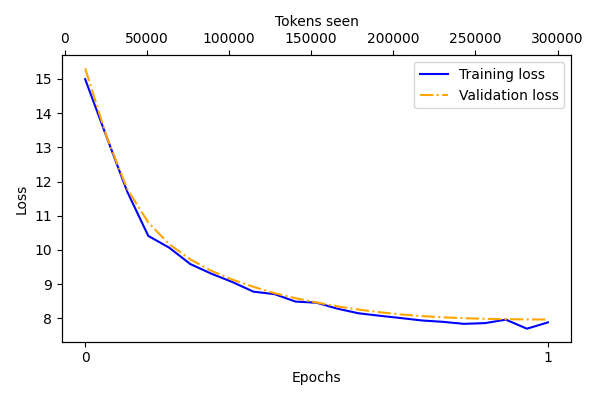
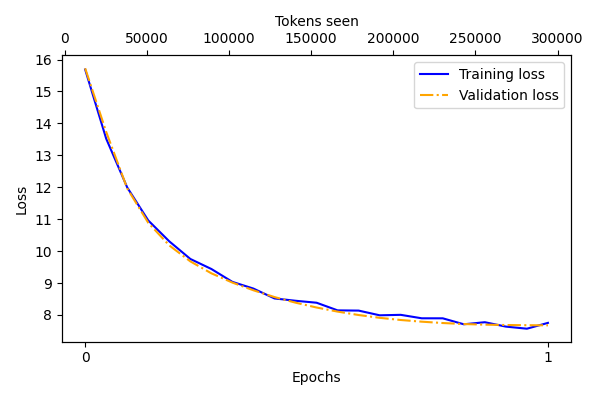
Checkpoint fix, format and BUGS

diff --git a/src/train/trainer.py b/src/train/trainer.py
@@ -58,7 +58,7 @@ class Trainer:
         model.train()
 
     def _checkpoint(
-        self, checkpoint_name, checkpoint_path, steps_per_epoch, chk_path, start_epoch
+        self, checkpoint_name, checkpoint_path, steps_per_epoch, chk_path, start_epoch, grad_accumulation_steps
     ):
         check_checkpoint = load_checkpoint(checkpoint_name, checkpoint_path)
 
@@ -77,7 +77,8 @@ class Trainer:
                     print("Exiting program.")
                     sys.exit()
             
-            return start_epoch, global_step
+            global_step, batches_to_skip = 0, 0
+            return start_epoch, global_step, batches_to_skip
         
         else:   
             print(f"Resuming from checkpoint: {check_checkpoint}")
@@ -86,12 +87,11 @@ class Trainer:
             )
             self.model.load_state_dict(checkpoint["model_state_dict"])
             self.optimizer.load_state_dict(checkpoint["optimizer_state_dict"])
-            start_epoch = checkpoint["epoch"] + 1
-            global_step = checkpoint.get(
-                "global_step", start_epoch * steps_per_epoch - 1
-            )
-
-            return start_epoch, global_step
+            start_epoch = checkpoint["epoch"] 
+            global_step = checkpoint['global_step']
+            batches_to_skip = (global_step + 1) * grad_accumulation_steps
+            
+            return start_epoch, global_step, batches_to_skip
 
     def _training_loop(
         self,
@@ -107,16 +107,18 @@ class Trainer:
         eval_freq,
         eval_iter,
         grad_accumulation_steps, 
+        global_step,
+        chk_path,
+        batches_to_skip
     ):
         train_losses, val_losses, track_tokens_seen, save_lr = [], [], [], []
         token_seen = 0
         max_lr = lr
         
-       
-        if not hasattr(self, 'global_step'): 
-             self.global_step = 0 
+        self.global_step = global_step if global_step >= 0 else 0
 
         self.optimizer.zero_grad(set_to_none=True) 
+        best_loss = torch.inf
 
         for epoch in range(start_epoch, num_epochs):
             self.model.train()
@@ -125,6 +127,11 @@ class Trainer:
             )
 
             for batch_idx, (input_batch, target_batch) in enumerate(progress_bar):
+
+                if epoch == start_epoch and batch_idx < batches_to_skip:
+                    if batch_idx % 100 == 0:
+                        progress_bar.set_description(f'Skipping batch {batch_idx}...')
+                    continue
 
                 loss = calc_loss_batch(
                     input_batch, target_batch, self.model, self.device
@@ -167,9 +174,13 @@ class Trainer:
                         track_tokens_seen.append(token_seen)
                         tqdm.write(f"Step {self.global_step}: Val loss {val_loss:.3f}")
                 
+                if loss < best_loss:
+                    best_loss = loss
+                    save_checkpoint(epoch, global_step, self.model, self.optimizer, loss, chk_path)
+                
                 token_seen += input_batch.numel()
 
-        return epoch, loss, save_lr, train_losses, val_losses, track_tokens_seen
+        return save_lr, train_losses, val_losses, track_tokens_seen
 
     def train(
         self,
@@ -228,11 +239,11 @@ class Trainer:
         start_epoch = 0
         global_step = -1
 
-        start_epoch, global_step = self._checkpoint(
-            checkpoint_name, checkpoint_path, raw_updates, chk_path, start_epoch
+        start_epoch, global_step, batches_to_skip = self._checkpoint(
+            checkpoint_name, checkpoint_path, raw_updates, chk_path, start_epoch, grad_accumulation_steps
         )
 
-        epoch, loss, save_lr, train_losses, val_losses, track_tokens_seen = self._training_loop(
+        save_lr, train_losses, val_losses, track_tokens_seen = self._training_loop(
             train_loader=train_loader,
             val_loader=val_loader,
             start_epoch=start_epoch,
@@ -247,7 +258,11 @@ class Trainer:
             grad_accumulation_steps=grad_accumulation_steps,
             
             eval_freq=eval_freq,
-            eval_iter=eval_iter
+            eval_iter=eval_iter,
+            
+            global_step=global_step,
+            chk_path=chk_path,
+            batches_to_skip=batches_to_skip
         )
 
         self._generate_and_print_sample(
@@ -260,7 +275,6 @@ class Trainer:
             top_p=top_p,
         )
 
-        save_checkpoint(epoch, global_step, self.model, self.optimizer, loss, chk_path)        
         plot_lr_scheduler(save_lr)
 
         return train_losses, val_losses, track_tokens_seen

diff --git a/src/utils/plotting/lr_plotting.py b/src/utils/plotting/lr_plotting.py
@@ -3,6 +3,11 @@ import numpy as np
 
 
 def plot_lr_scheduler(lr_values: list):
+
+    if len(lr_values) == 0:
+        print('No sheduler data to plot.')
+        return 
+    
     try:
         actual_steps = np.arange(len(lr_values)) 
 
